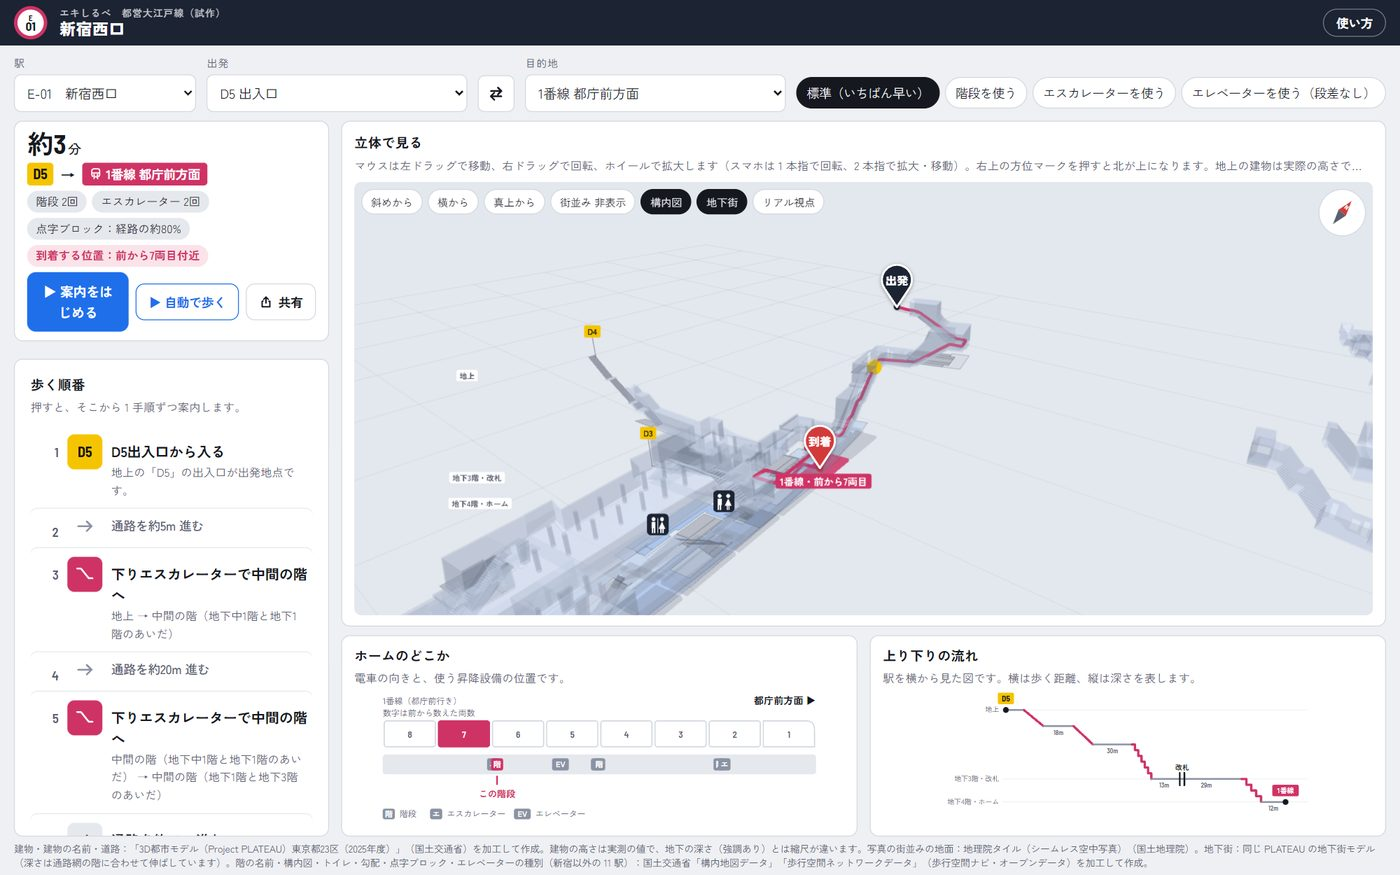
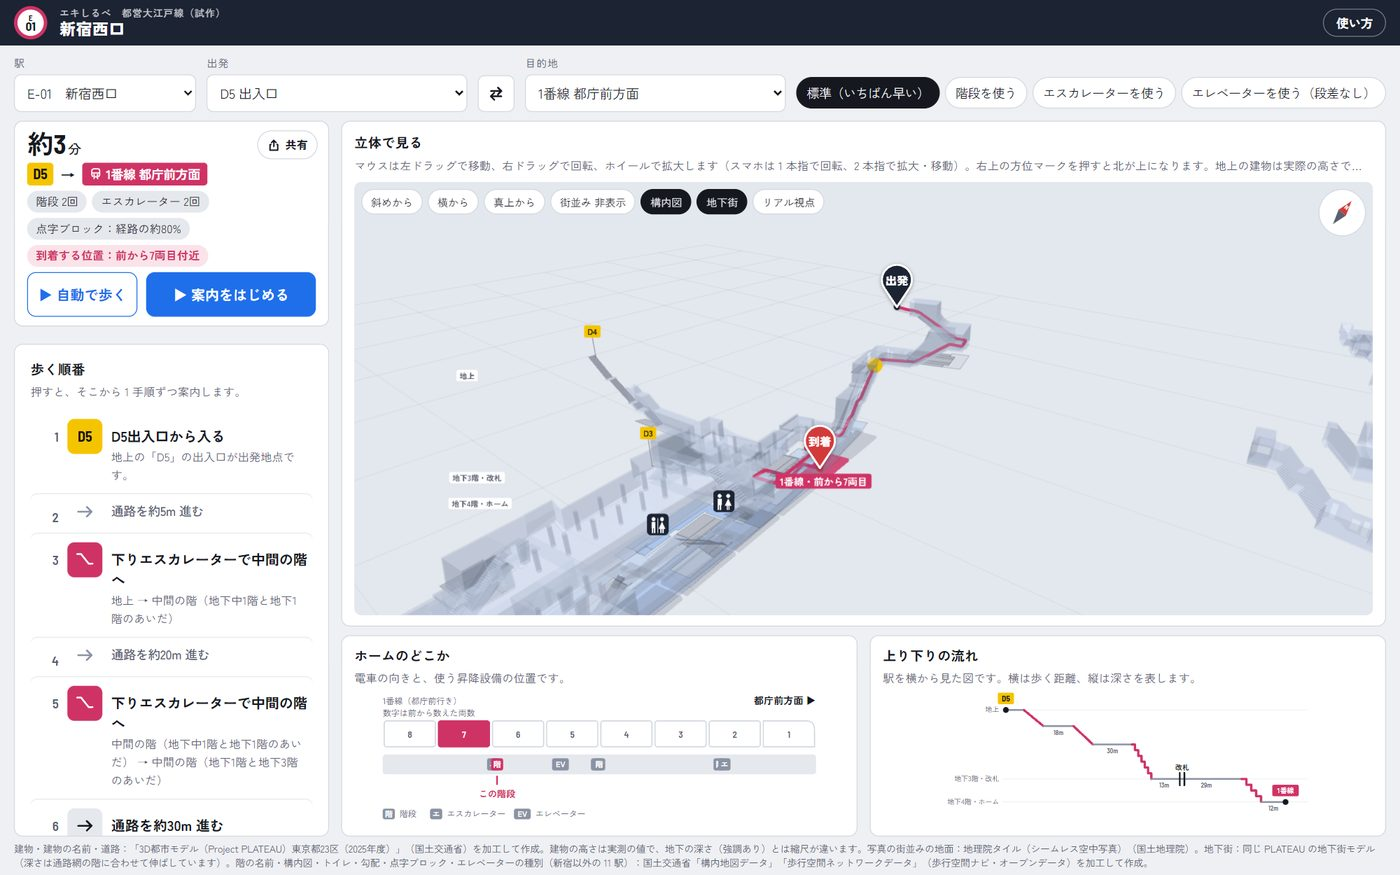
案内をはじめるをつぎへと同じ位置に

Changed region(s): [[0.0, 0.3086, 0.2457, 0.9566], [0.6143, 0.4011, 0.645, 0.432], [0.1843, 0.1543, 0.215, 0.1851]]

diff --git a/index.html b/index.html
@@ -95,7 +95,7 @@ select:focus-visible, button:focus-visible, input:focus-visible + span { outline
 .seg input:checked + span { background: var(--ink); color: var(--bg); border-color: var(--ink); }
 
 /* 要約 */
-.summary { margin-top: 20px; display: flex; flex-wrap: wrap; align-items: center; gap: 12px 22px; padding: 16px 18px;
+.summary { margin-top: 20px; display: flex; flex-wrap: wrap; align-items: center; gap: 12px 22px; padding: 16px 18px; position: relative;
   background: var(--surface); border-radius: var(--r); border: 1px solid var(--line); }
 .mins { font-family: var(--f-num); font-weight: 700; font-size: 44px; line-height: 1; }
 .mins small { font-family: var(--f-body); font-size: 15px; font-weight: 500; margin-left: 2px; }
@@ -218,16 +218,17 @@ footer a { color: inherit; }
 .tr-t { fill: #fff; font-weight: 700; font-size: 12px; font-family: var(--f-body); }
 
 /* 案内カード（walkbavi と同じく、1 手順ずつ「つぎへ」で進める） */
-.start { font: inherit; font-weight: 700; font-size: 15px; padding: 10px 18px; border-radius: 10px; border: 0; cursor: pointer;
-  background: var(--sel); color: #fff; margin-left: auto; }
+.start { font: inherit; font-weight: 700; font-size: 16px; padding: 12px; border-radius: 10px; border: 1px solid var(--sel); cursor: pointer;
+  background: var(--sel); color: #fff; }
 .start:hover { filter: brightness(1.08); }
-.acts { display: flex; gap: 8px; align-items: center; margin-left: auto; }
-.acts .start { margin-left: 0; }
-.share { font: inherit; font-weight: 700; font-size: 14px; padding: 9px 14px; border-radius: 10px; cursor: pointer;
-  border: 1px solid var(--line); background: var(--surface); color: var(--ink); display: inline-flex; align-items: center; gap: 6px; }
+/* 要約のボタン: 案内カードの「もどる・つぎへ」（.navctl）と同じ 2 列。右が「案内をはじめる」（つぎへと同じ位置） */
+.acts { display: grid; grid-template-columns: 1fr 1.6fr; gap: 10px; width: 100%; }
+.share { font: inherit; font-weight: 700; font-size: 13px; padding: 5px 10px; border-radius: 999px; cursor: pointer;
+  border: 1px solid var(--line); background: var(--surface); color: var(--ink); display: inline-flex; align-items: center; gap: 5px;
+  position: absolute; top: 10px; right: 12px; }
 .share:hover { border-color: var(--sel); color: var(--sel); }
 /* 自動で歩く（進め方: 案内をはじめる = 手動、自動で歩く = 自動。見え方は立体図の上のボタン） */
-.auto { font: inherit; font-weight: 700; font-size: 14px; padding: 9px 14px; border-radius: 10px; cursor: pointer; white-space: nowrap;
+.auto { font: inherit; font-weight: 700; font-size: 16px; padding: 12px; border-radius: 10px; cursor: pointer; white-space: nowrap;
   border: 1px solid var(--sel); background: var(--surface); color: var(--sel); }
 .auto:hover { filter: brightness(1.08); }
 .auto[aria-pressed="true"] { background: var(--sel); color: #fff; }
@@ -292,6 +293,11 @@ footer a { color: inherit; }
   .navctl { position: fixed; left: 0; right: 0; bottom: 0; z-index: 20; padding: 10px 16px calc(10px + env(safe-area-inset-bottom, 0px));
     background: var(--surface); border-top: 1px solid var(--line); }
   body.nav-on main { padding-bottom: 84px; }
+  /* 要約のボタンも、案内中の「もどる・つぎへ」と同じく画面の下に固定（案内をはじめる → つぎへ が同じ場所） */
+  .summary .acts { position: fixed; left: 0; right: 0; bottom: 0; z-index: 20; padding: 10px 16px calc(10px + env(safe-area-inset-bottom, 0px));
+    background: var(--surface); border-top: 1px solid var(--line); }
+  main:has(.summary) { padding-bottom: 84px; }
+  body.nav-on .summary .acts { display: none; }
   /* 案内中は、立体図を画面の上に貼り付け、そのすぐ下に案内カードを詰めて見せる（両方を同時に見られるように） */
   body.nav-on .p3d { position: sticky; top: env(safe-area-inset-top, 0px); z-index: 6; padding: 6px; border-radius: 0 0 var(--r) var(--r); }
   body.nav-on .p3d h2, body.nav-on .p3d .hint, body.nav-on .knobs { display: none; }
@@ -322,8 +328,6 @@ footer a { color: inherit; }
   #out > .notice { grid-column: 1 / -1; align-self: start; }
   .main { display: contents; }
   .summary { grid-column: 1; grid-row: 1; margin-top: 0; padding: 10px 14px; gap: 6px 12px; }
-  .summary .acts { margin-left: 0; width: 100%; }
-  .summary .start { flex: 1; }
   body.nav-on .summary { display: none; } /* 案内中は案内カードがあるので、要約を隠して歩く順番を広く */
   .mins { font-size: 30px; }
   .side { grid-column: 1; grid-row: 2 / 4; min-height: 0; display: flex; flex-direction: column; gap: 10px; }
@@ -2670,9 +2674,11 @@ var View3D = (function () {
       '<div style="display:grid;gap:6px;min-width:0">' +
         '<div class="route-line">' + epBadge(from) + '<span aria-hidden="true">→</span><span class="sr-only" style="position:absolute;left:-9999px">から</span>' + epBadge(to) + '</div>' +
         '<div class="chips">' + chips.join('') + '</div>' +
-      '</div><div class="acts"><button type="button" class="start" id="nav-start" title="1 手順ずつ「つぎへ」で進める">▶ 案内をはじめる</button>' +
-      '<button type="button" class="auto" id="auto-walk" aria-pressed="false" title="経路全体を自動で歩いて見せる（リアル視点のときは目の高さで）">▶ 自動で歩く</button>' +
-      '<button type="button" class="share" id="share" title="この案内のリンクを送る（開くと同じ案内が出ます）">' + icon('share', 16) + '共有</button></div></div>';
+      '</div>' +
+      '<button type="button" class="share" id="share" title="この案内のリンクを送る（開くと同じ案内が出ます）">' + icon('share', 16) + '共有</button>' +
+      // 案内カードの「もどる・つぎへ」と同じ並び・大きさ（「案内をはじめる」を「つぎへ」と同じ右の位置に。2026-10-08 利用者「案内をはじめるボタンの位置と、次へボタンの位置が違うから、操作に違和感がある」）
+      '<div class="acts"><button type="button" class="auto" id="auto-walk" aria-pressed="false" title="経路全体を自動で歩いて見せる（リアル視点のときは目の高さで）">▶ 自動で歩く</button>' +
+      '<button type="button" class="start" id="nav-start" title="1 手順ずつ「つぎへ」で進める">▶ 案内をはじめる</button></div></div>';
   }
 
   function stepIcon(s) {
